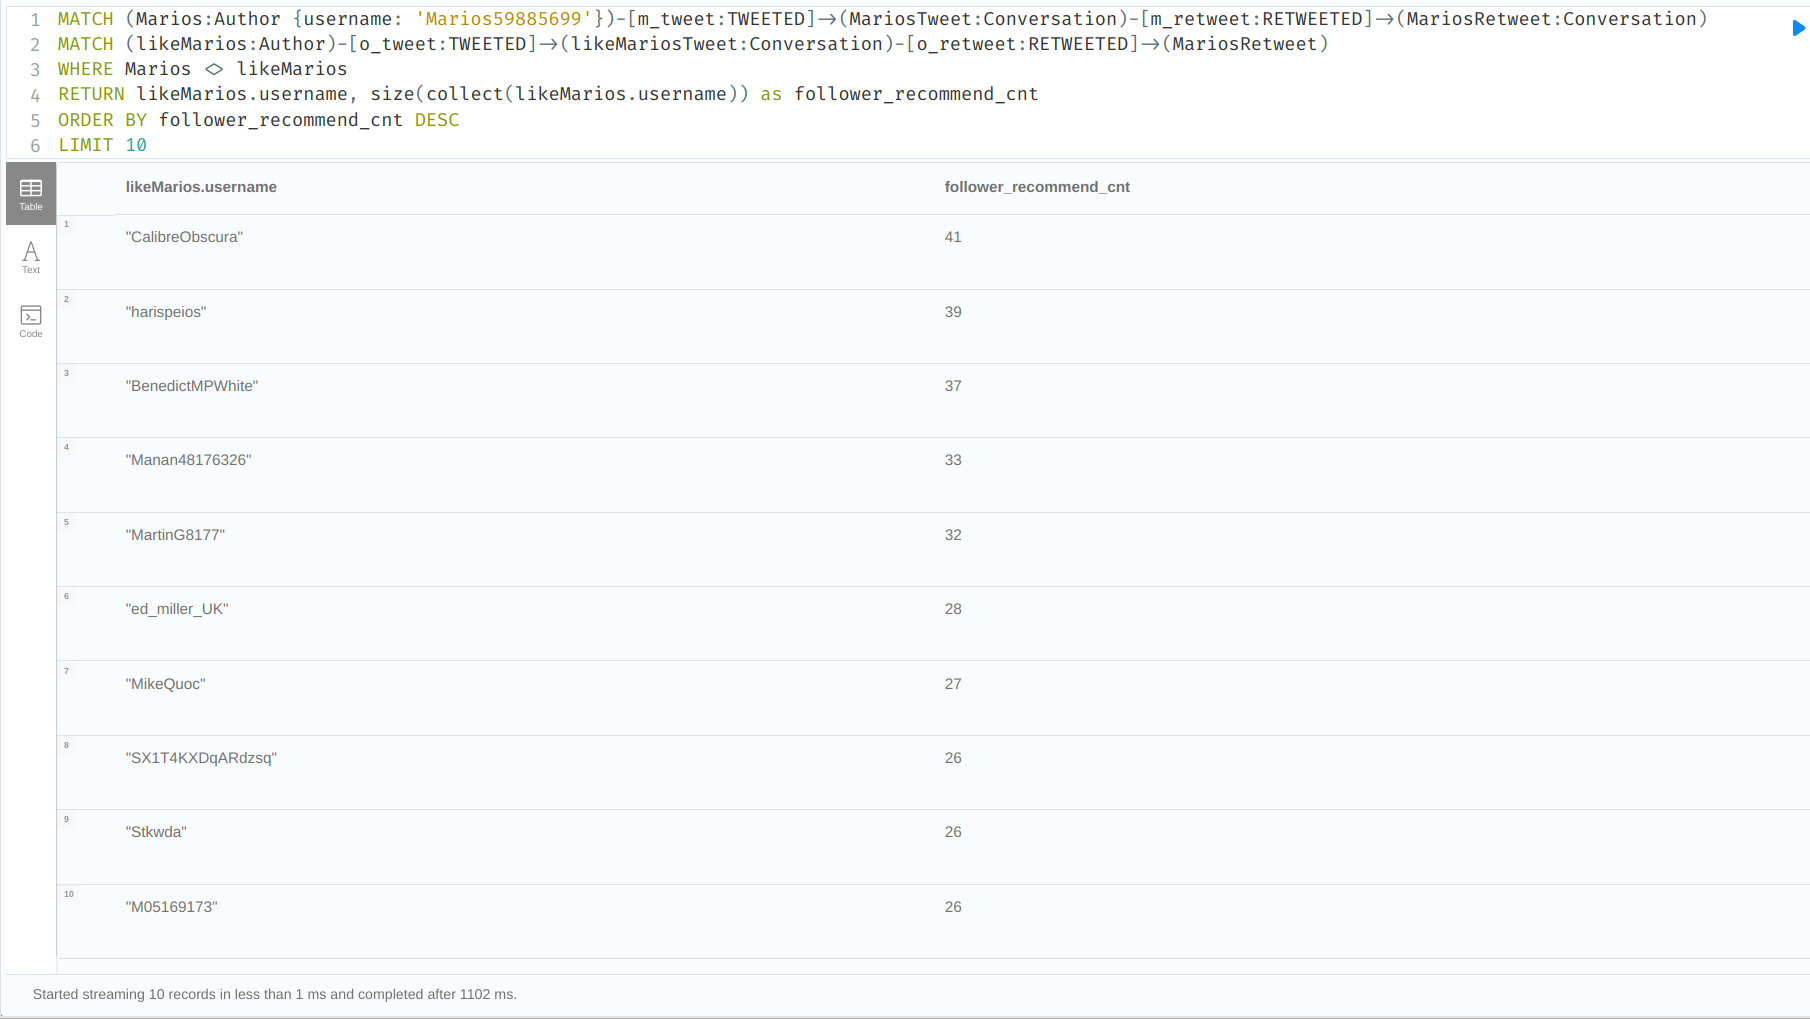
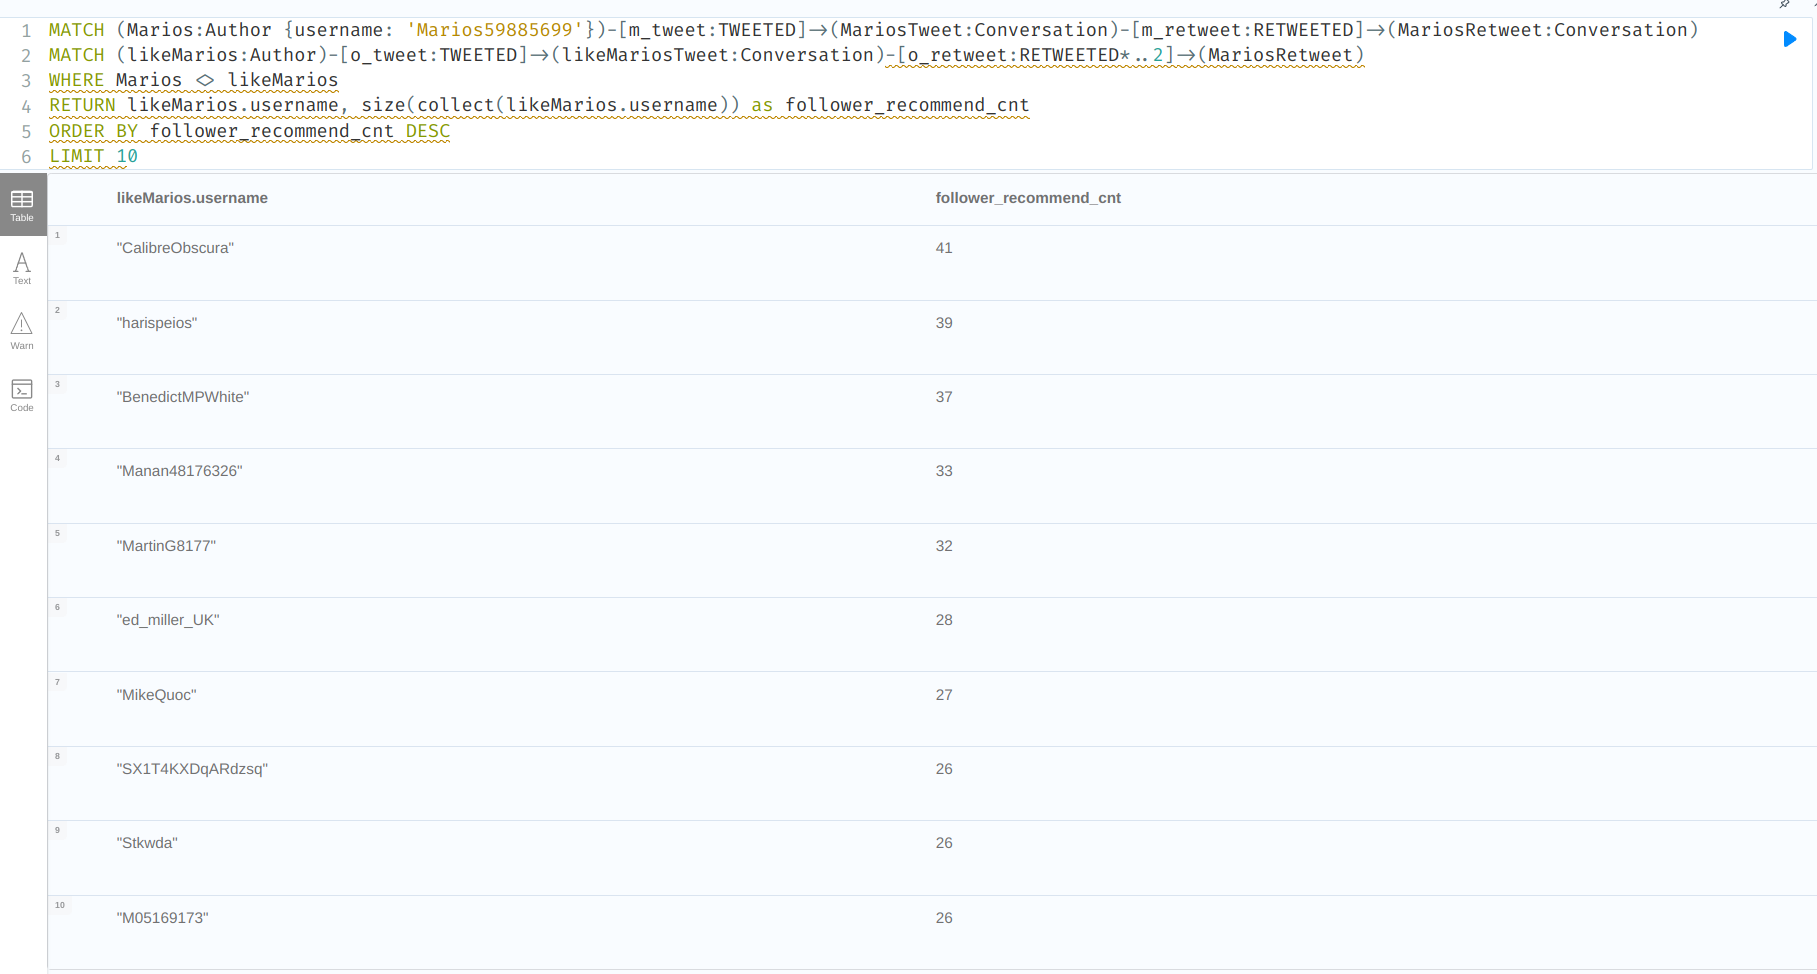
assig 4 done

diff --git a/Assignment_4/README.md b/Assignment_4/README.md
@@ -1,16 +1,36 @@
+# Zadanie IV.
+
+| **Vypracoval**: | Štefan Hajdú                                                   |
+| --------------- | -------------------------------------------------------------- |
+| **GitHub**:     | https://github.com/StefanHajdu/PDT-22/tree/master/Assignment_4 |
+
 ## Úloha 1
 
-Najdi tweet od Zelenskyho s najvacsim poctom vztahov REPLIED_TO
+**Vytvorte volaním iba jednej query nového Autora s Vašim menom (vyplňte
+minimálne name a username) a tým istým volaním vytvorte tweet ktorý bude
+obsahovať aspoň jeden vami vybraný Hashtag (vzťah :HAS) a ktorý bude retweetovať
+najretweetovanejší tweet Vladimíra Zelenského{username:"ZelenskyyUa"}.**
+
+V subquery najprv nájdeme tweet, ktorý spĺňa:
+
+- jeho autorom je `username: ZelenskyyUa`
+- najviackrát sa naň odkazovali iné tweety cez vzťah `REPLIED_TO`
+
+Potom, už len pomocou `CREATE` vytvoríme:
+
+1. uzol typu Author
+2. uzol typu Conversation
+3. vzťahy medzi vytvorenými uzlami, ľubovoľným hashtagom a Zelenskyho tweetom
 
 **Výsledné Query:**
 
 ```SQL
 CALL {
-MATCH (zelensky:Author {username: 'ZelenskyyUa'})-[rel:TWEETED]->(ZelenskyTweet:Conversation)<-[reply:REPLIED_TO]-(otherTweet:Conversation)
-WITH ZelenskyTweet, otherTweet, reply
-RETURN ZelenskyTweet, size(collect(reply)) as cnt
-ORDER BY cnt DESC
-LIMIT 1
+    MATCH (zelensky:Author {username: 'ZelenskyyUa'})-[rel:TWEETED]->(ZelenskyTweet:Conversation)<-[reply:REPLIED_TO]-(otherTweet:Conversation)
+    WITH ZelenskyTweet, otherTweet, reply
+    RETURN ZelenskyTweet, size(collect(reply)) as cnt
+    ORDER BY cnt DESC
+    LIMIT 1
 }
 CREATE (StefanHajdu:Author {name: 'StefanHajdu', username:'sh00066'})
 CREATE (myTweet:Conversation {content: 'PDT2022_Olala'})
@@ -23,31 +43,21 @@ CREATE (myTweet)-[:RETWEETED]->(ZelenskyTweet)
 Toto query kontoroluje, či sme naozaj vytvorili nášho autora spolu s tweetom a hashtagom.
 
 ```SQL
-CALL {
-MATCH (zelensky:Author {username: 'ZelenskyyUa'})-[rel:TWEETED]->(ZelenskyTweet:Conversation)<-[reply:REPLIED_TO]-(otherTweet:Conversation)
-WITH ZelenskyTweet, otherTweet, reply
-RETURN ZelenskyTweet, size(collect(reply)) as cnt
-ORDER BY cnt DESC
-LIMIT 1
-}
-MATCH (a:Conversation)-[:RETWEETED]->(ZelenskyTweet)
-RETURN a
-
 MATCH (StefanHajdu:Author {username: 'sh00066'})-[:TWEETED]->(myTweet)-[:HAS]->(myHashtag:Hashtag {tag: 'NoWar'})
 RETURN *
 ```
 
 ![u3-res.jpg](images/u1_check2.png)
 
-Toto query kontorluje, či sme vytvorili retweet na Zelenskyho tweet. Vidíme, že nami pridaný tweet sa ukázal medzi všetkými tweetami, ktoré retweetujú Zelenskyho tweet.
+Toto query kontroluje, či sme vytvorili retweet na Zelenskyho tweet. Vidíme, že nami pridaný tweet sa ukázal medzi všetkými tweetami, ktoré retweetujú Zelenskyho tweet.
 
 ```SQL
 CALL {
     MATCH (zelensky:Author {username: 'ZelenskyyUa'})-[rel:TWEETED]->(ZelenskyTweet:Conversation)<-[reply:REPLIED_TO]-(otherTweet:Conversation)
-WITH ZelenskyTweet, otherTweet, reply
-RETURN ZelenskyTweet, size(collect(reply)) as cnt
-ORDER BY cnt DESC
-LIMIT 1
+    WITH ZelenskyTweet, otherTweet, reply
+    RETURN ZelenskyTweet, size(collect(reply)) as cnt
+    ORDER BY cnt DESC
+    LIMIT 1
 }
 MATCH (a:Conversation)-[rel:REPLIED_TO]->(ZelenskyTweet)
 RETURN a, rel, ZelenskyTweet
@@ -56,6 +66,13 @@ RETURN a, rel, ZelenskyTweet
 ![u3-res.jpg](images/u1.png)
 
 ## Úloha 2
+
+**Vyhľadajte zlyhania influencerov. Vyhľadajte 20 najmenej retweetovanych tweetov
+od Accountov, ktoré sú na prvých 10 miestach v celkovom počte retweetov. Aj keď
+taký príklad v datasete nie je, počítajte aj s prípadom, ak by niektorý tweet bol
+retweetnutý 0 krát.**
+
+Najprv si nájdeme top 10 "influencerov". Sú to taký autori, ktorých tweety, boli najviackrát spojené s iným tweetom cez vzťah `RETWEETED`.
 
 **Query pre 10 najvačších influencerov podľa počtu retweetov:**
 
@@ -69,21 +86,23 @@ LIMIT 10
 
 ![u3-res.jpg](images/u2-inf.png)
 
+Ak už poznáme top influenecerov potom ich zaváhania sú tie ich tweety, ktoré majú najmenej spojení cez vzťah `RETWEETED`. Teda pre každý tweet od influencera spočítame počet vzťahov `RETWEETED` a zoradíme ich vzostupne.
+
 **Výsledné Query:**
 
 ```SQL
 CALL {
-MATCH (influencer:Author)-[tweeted:TWEETED]->(tweet:Conversation)<-[retweeted:RETWEETED]-(retweet:Conversation)
-WITH influencer, retweet
-RETURN influencer, size(collect(retweet)) as retweet_cnt
-ORDER BY retweet_cnt DESC
-LIMIT 10
+    MATCH (influencer:Author)-[tweeted:TWEETED]->(tweet:Conversation)<-[retweeted:RETWEETED]-(retweet:Conversation)
+    WITH influencer, retweet
+    RETURN influencer, size(collect(retweet)) as retweet_cnt
+    ORDER BY retweet_cnt DESC
+    LIMIT 10
 }
 
 MATCH (influencer)-[:TWEETED]->(tweet:Conversation)
 MATCH (tweet)<-[retweeted:RETWEETED]-(otherTweet:Conversation)
-RETURN influencer.username, tweet.content, tweet.retweet_count, size(collect(retweeted)) as shit_tweet_cnt
-ORDER BY shit_tweet_cnt
+RETURN influencer.username, tweet.content, tweet.retweet_count, size(collect(retweeted)) as bad_tweet_cnt
+ORDER BY bad_tweet_cnt
 LIMIT 20
 ```
 
@@ -91,15 +110,22 @@ LIMIT 20
 
 ![u3-res.jpg](images/u2-res.png)
 
+Vo výsledky vidíme, že všetci uvedení influenceri, sú naozaj z top 10.
+
 ## Úloha 3
+
+**Odporučte používateľovi (username: Marios59885699) followovanie ďalších autorov
+na základe zhody v retweetovaní rovnakých tweetov: Vyhľadajte 10 autorov, ktorí
+retweetli najviac tweetov rovnakych, ako používateľ Marios59885699. Počítajú sa aj
+retweety tweetov, ktoré retweetujú rovnaký tweet.**
+
+Pre lepšie pochopenie sme si najprv vizualizovali ako daná situácia (zhoda retweetov) vyzerá.
 
 **Vizualizácia retweet-ovania rovnaných tweetov medzi dvoma autormi:**
 
 ```SQL
-// najde vsetky retweetnute tweety Mariosom
 MATCH (Marios:Author {username: 'Marios59885699'})-[m_tweet:TWEETED]->(MariosTweet:Conversation)-[m_retweet:RETWEETED]->(MariosRetweet:Conversation)
 
-// najde vsetky cesty od ineho autora k tweetom retweetnutych Mariosom
 MATCH (likeMarios:Author)-[o_tweet:TWEETED]->(likeMariosTweet:Conversation)-[o_retweet:RETWEETED*..2]->(MariosRetweet)
 WHERE Marios <> likeMarios AND likeMarios.username = '03bonbon03'
 RETURN likeMarios
@@ -107,11 +133,13 @@ RETURN likeMarios
 
 ![u3-res.jpg](images/u3-show.png)
 
+Vo výslednom query najprv nájedeme všetky tweety, ktoré retweetoval Marios. Potom k týmto tweetom nájdeme všetkých autorov, ktorý nie sú Marios, ale retweetovali rovnaké tweety. Pri vzťahu sme nastavili hĺbku pre vzťah `RETWEETED` na interval 1 alebo 2, teda uvažujeme aj o retweetoch, ktoré retweetujú rovnaký (Mariosov) tweet. Najdených autorov potom už len spočítame a zoradíme.
+
 **Výsledné Query:**
 
 ```SQL
 MATCH (Marios:Author {username: 'Marios59885699'})-[m_tweet:TWEETED]->(MariosTweet:Conversation)-[m_retweet:RETWEETED]->(MariosRetweet:Conversation)
-MATCH (likeMarios:Author)-[o_tweet:TWEETED]->(likeMariosTweet:Conversation)-[o_retweet:RETWEETED]->(MariosRetweet)
+MATCH (likeMarios:Author)-[o_tweet:TWEETED]->(likeMariosTweet:Conversation)-[o_retweet:RETWEETED*..2]->(MariosRetweet)
 WHERE Marios <> likeMarios
 RETURN likeMarios.username, size(collect(likeMarios.username)) as follower_recommend_cnt
 ORDER BY follower_recommend_cnt DESC
@@ -122,16 +150,18 @@ LIMIT 10
 
 ## Úloha 4
 
+**Nájdite najkratšie cesty medzi Ukrajinským parlamentom (username:
+“ua_parliament”) a NextaTV (username: “nexta_tv”) cez vzťahy TWEETED,
+RETWEETED, REPLIED_TO a QUOTED. Hľadajte do hĺbky maximálne 10. (hint:
+allShortestPaths)**
+
+Riešením je použiť funciu `allShortestPaths`, medzi uzlami “ua_parliament” a “nexta_tv”. V parametri funkcie sme definovali filter na hľadanie iba vzťahov, ktoré sú povolené v zadaní, rovnako aj interval pre hĺbku hľadania. Funckia nám vráti iba jedinú cestu, ktorá sa rovná najkratšej ceste medzi danými uzlami.
+
 **Výsledné Query:**
 
 ```SQL
 MATCH (ua_par:Author {username: 'ua_parliament'}), (nexta:Author {username: 'nexta_tv'})
 MATCH paths = allShortestPaths((ua_par)-[r1:TWEETED|RETWEETED|REPLIED_TO|QUOTED*..10]-(nexta))
-RETURN paths
-
-MATCH (ua_par:Author {username: 'ua_parliament'}), (nexta:Author {username: 'nexta_tv'})
-MATCH paths = allShortestPaths((ua_par)-[*..10]-(nexta))
-WHERE all(rel IN relationships(paths) WHERE type(rel) IN ['TWEETED', 'QUOTED', 'REPLIED_TO', 'RETWEETED'])
 RETURN paths
 ```
 
@@ -139,13 +169,17 @@ RETURN paths
 
 ## Úloha 5
 
+**Upravte query z predchádzajúcej úlohy, aby vrátila iba nájdenú najkratšiu cestu a
+jednotlivé uzly typu Conversation v nej aj spolu z autorom, ktorý ich tweetol. (hint:
+UNWIND)**
+
+Najprv nájdeme najkratšiu cestu. Túto cestu je potrebné rozdeliť na jednotlivé uzly (pomocou UNWIND), aby sme mohli odfiltrovať uzly typu `Author`. Tým nám zostane iba množina konverzácií, ku ktorým jednoducho nájedeme autorov cez vzťah `TWEETED`.
+
 **Výsledné Query:**
 
 ```SQL
 MATCH (ua_par:Author {username: 'ua_parliament'}), (nexta:Author {username: 'nexta_tv'})
-MATCH path = shortestPath((ua_par)-[*..10]-(nexta))
-WHERE all(rel IN relationships(path) WHERE type(rel) IN ['TWEETED', 'QUOTED', 'REPLIED_TO', 'RETWEETED'])
-// WITH reduce(output = [], n IN nodes(path) | output + n) as nodesCollection
+MATCH path = shortestPath((ua_par)-[r1:TWEETED|RETWEETED|REPLIED_TO|QUOTED*..10]-(nexta))
 WITH nodes(path) as nodesCollection
 UNWIND nodesCollection as tweet_nodes
 WITH tweet_nodes
@@ -158,15 +192,23 @@ RETURN a, tw, tweet_nodes
 
 ## Úloha 6
 
+**Vypíšte 10 najpoužívanejších hashtagov v datasete aj s celkovým počtom použití a
+autorom, ktorý daný hashtag najviac krát použil. (hint: collect)**
+
+V subquery si najprv nájdeme 10 najpoužívanejších hashtagov (najpoužívanejší je ten, ktorý má najviac vzťahov `HAS`). Subquery nám vrati hashtagy aj s celkovým počtom použitia.
+
+Potom na tieto hashtagy namapujeme na autorov, ktorý ich použili. Pre každého autora a hashtag spočítame počet vzťahov `TWEETED`, to nám dá informáciu o tom, koľkokrát bol daný hashtag použitý daným autorom, následne výsledok podľa tohto počtu zoradíme. Tým dostaneme top autorov, pre každý hashtag.
+Následne autorov spojíme do zoznamu (pomocou `collect()`). Tým že sme výsledok zoradili, tak vieme, že prvý autor v zozname je najčastejší používateľ, preto zo zoznamu vyberieme iba prvého (index [0])
+
 **Výsledné Query:**
 
 ```SQL
 CALL {
     MATCH (a:Author)-[t:TWEETED]->(tw:Conversation)-[has:HAS]->(hashtag:Hashtag)
-WITH has, hashtag
-RETURN hashtag, size(collect(has)) as num_of_usages
-ORDER BY num_of_usages DESC
-LIMIT 10
+    WITH has, hashtag
+    RETURN hashtag, size(collect(has)) as num_of_usages
+    ORDER BY num_of_usages DESC
+    LIMIT 10
 }
 
 MATCH (a:Author)-[t:TWEETED]->(tw:Conversation)-[has:HAS]->(hashtag)
